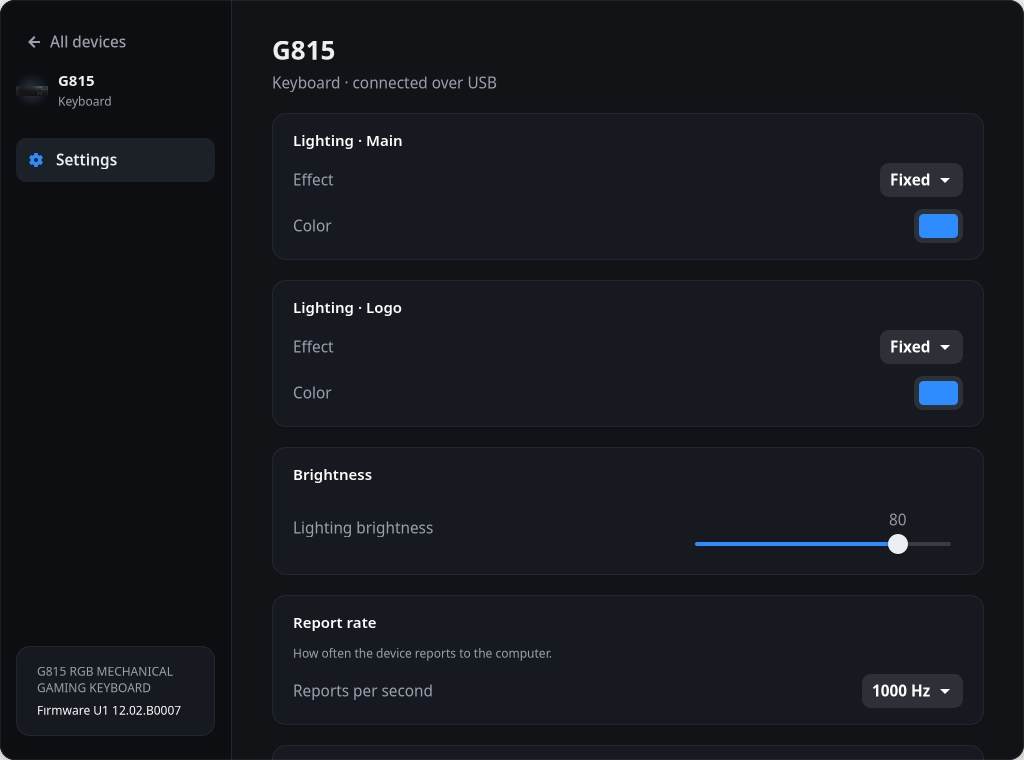
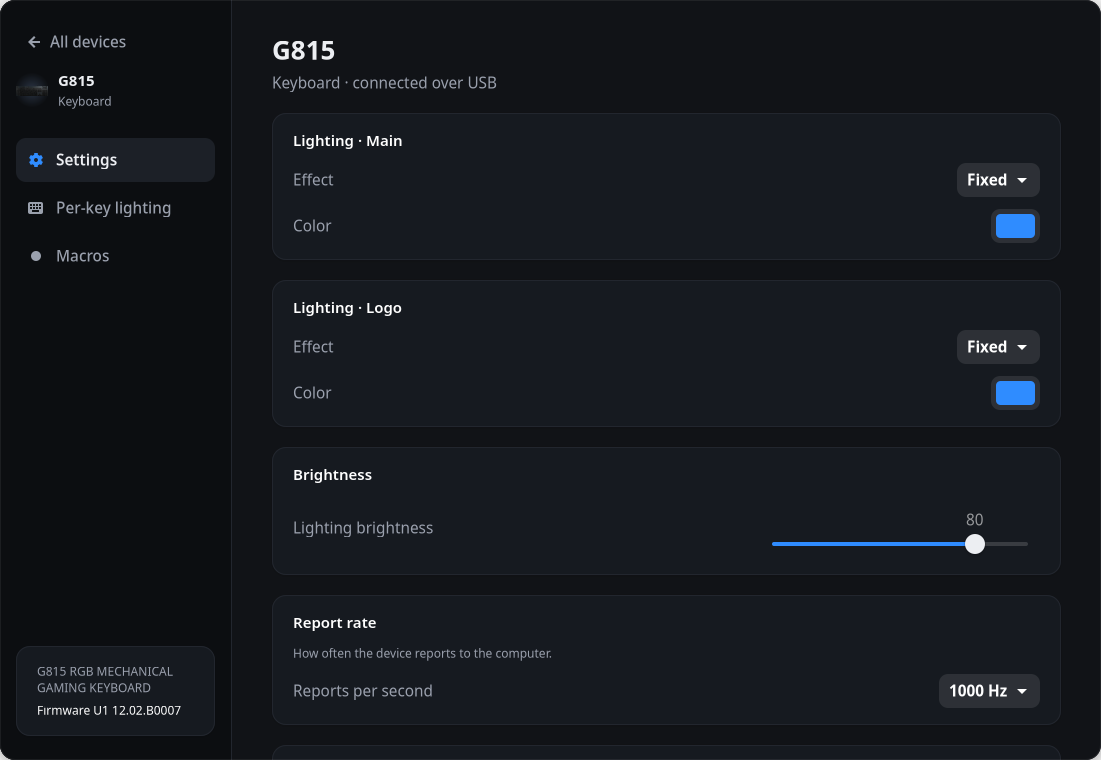
README screenshots: Blue VO!CE 2, Games, per-key lighting
docs/screenshots.sh renders them too (examples in throwaway configs);
the keyboard shot is redone with the new settings.

Claude-Session: https://claude.ai/code/session_01YM4ymSrNn6ziqWrhZWUPKR

diff --git a/app.py b/app.py
@@ -186,6 +186,8 @@ class MainWindow(Adw.ApplicationWindow):
 
 		self._discover()
 		GLib.timeout_add_seconds(DISCOVER_SECONDS, self._discover)
+		if start_page == 'games':
+			self.show_games()
 		if start_page in bluevoice_ui.PAGES:
 			pro_x = next((d for d in self.home.devices if devices.blue_voice_model(d)), None)
 			self.show_device(pro_x)

diff --git a/README.md b/README.md
@@ -43,6 +43,10 @@ reverb, delay, ring modulator). Untested on a real Yeti.
 its executable (Proton games too) or Steam App ID, and its Blue VO!CE, equalizer and surround
 settings come on when it starts and go back when it closes.
 
+| Blue VO!CE 2 (Yeti X) | Games |
+| --- | --- |
+| ![Blue VO!CE 2](docs/screenshots/yeti-bluevoice.png) | ![Games](docs/screenshots/games.png) |
+
 **Surround.** G HUB's DTS Headphone:X 2.0 virtual 7.1, running Logitech's own DTS processing
 with your headset's tuning (G Pro X, G Pro X Wireless, G733 and more), on a new output
 *… (Surround 7.1)*. Games set to 7.1 get every speaker placed around you. G HUB's rooms
@@ -88,7 +92,9 @@ key-to-LED table (0x8080 on older keyboards). Lighting zones and effects, bright
 rate, Fn keys, game mode, Easy-Switch, angle snapping, sidetone, on-board memory and battery. Devices with a USB sound card (headsets,
 speakers, Yeti mics) also get its controls.
 
-![Keyboard](docs/screenshots/keyboard.png)
+| Settings | Per-key lighting |
+| --- | --- |
+| ![Keyboard](docs/screenshots/keyboard.png) | ![Per-key lighting](docs/screenshots/keyboard-perkey.png) |
 
 ## Webcams
 
